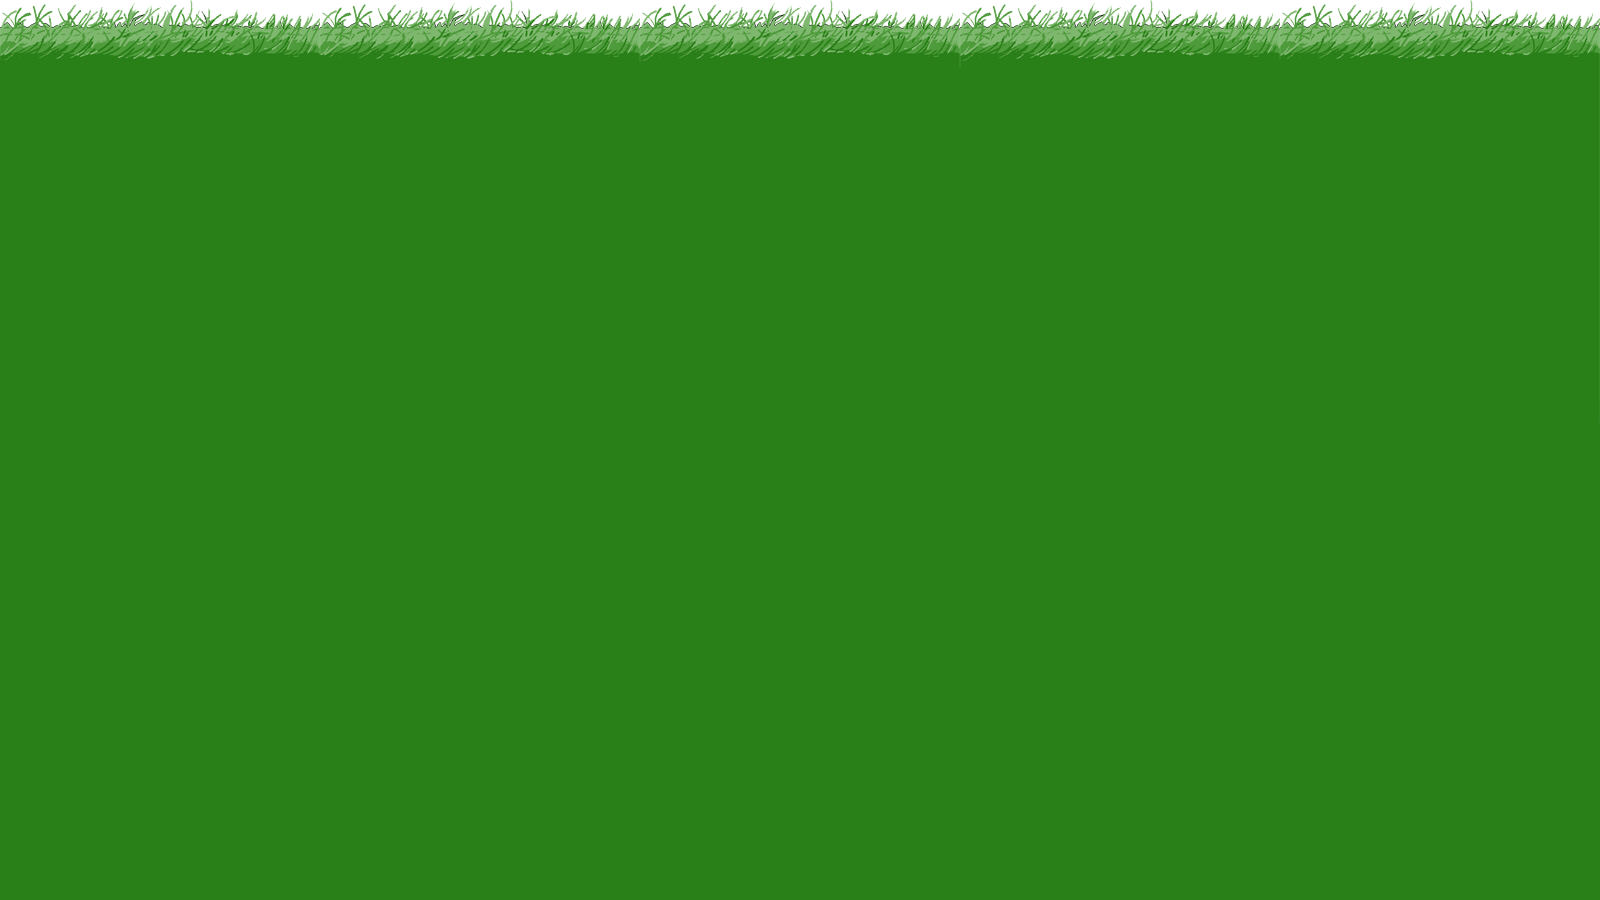
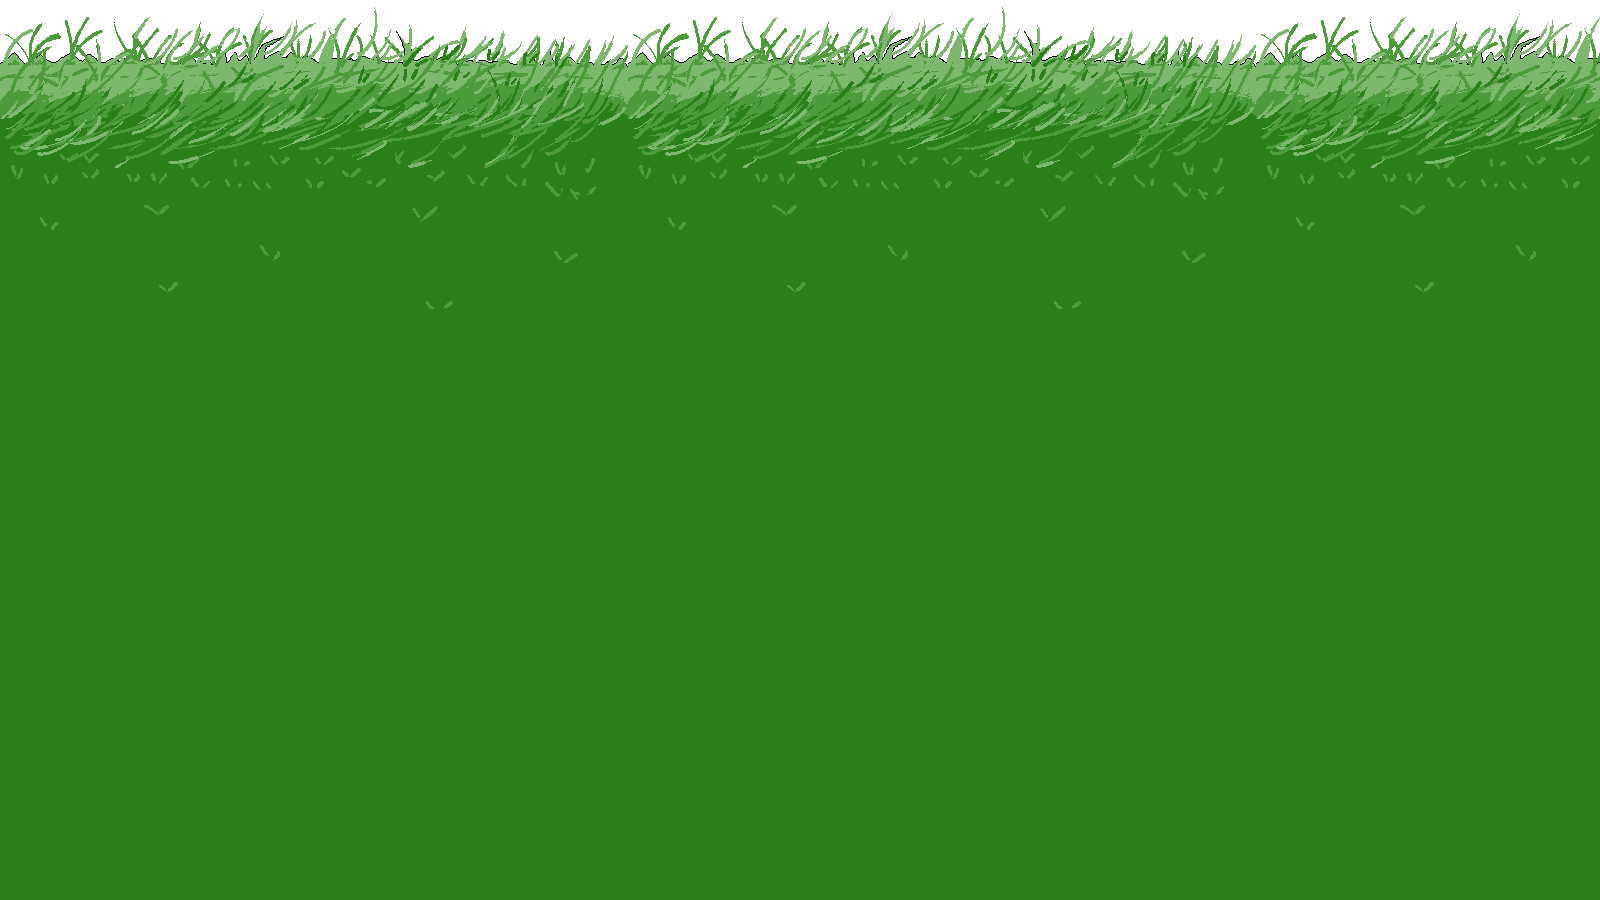
updated grass and added shadows to title screen

Changed region(s): [[0.0, 0.0, 1.0, 0.2178]]

diff --git a/code/titlemenu.py b/code/titlemenu.py
@@ -47,6 +47,15 @@ class TitleMenu(GameMenu):
         int(head['face'].get_width() * scale),
         int(head['face'].get_height() * scale)
       ))
+      imgWidth = img.get_width()
+      imgHeight = img.get_height()
+      
+      pygame.draw.ellipse(screen, (0, 100, 0), (
+        head['pos'][0] - imgWidth / 2 * 0.8,
+        head['pos'][1] * HEIGHT / 2 + HEIGHT/10 + height + imgHeight / 2 - imgHeight * 0.2,
+        imgWidth * 0.8,
+        imgHeight * 0.2
+      ))
       img = pygame.transform.rotate(img, -(((time.time() + i) * freq) % 360))
       screen.blit(
         img, (

diff --git a/app.py b/app.py
@@ -53,7 +53,6 @@ def toLobbyMenu():
   currMenu = LOBBY_MENU
   playersCanJoin = True
   musicState = 0
-  print("playing lobby " + str(lobby_start))
   pygame.mixer.music.load(lobby_start)
   pygame.mixer.music.play()
   pygame.mixer.music.queue(lobby_loop)
